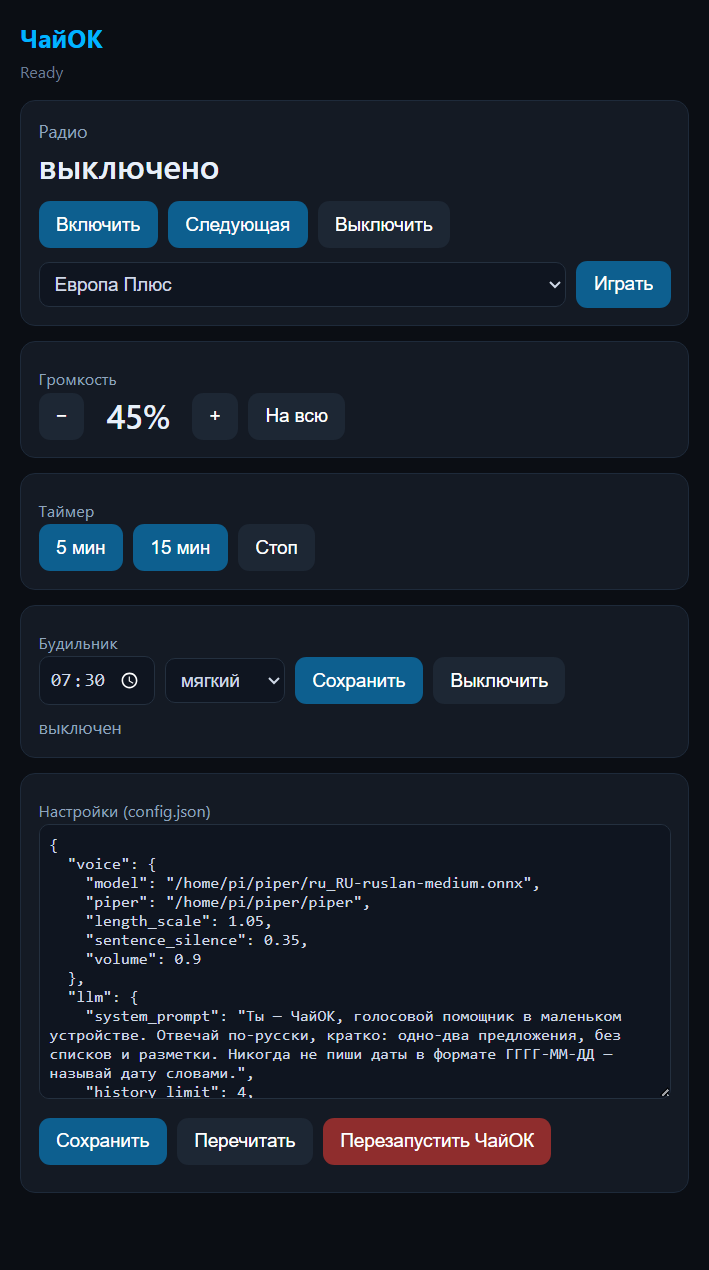
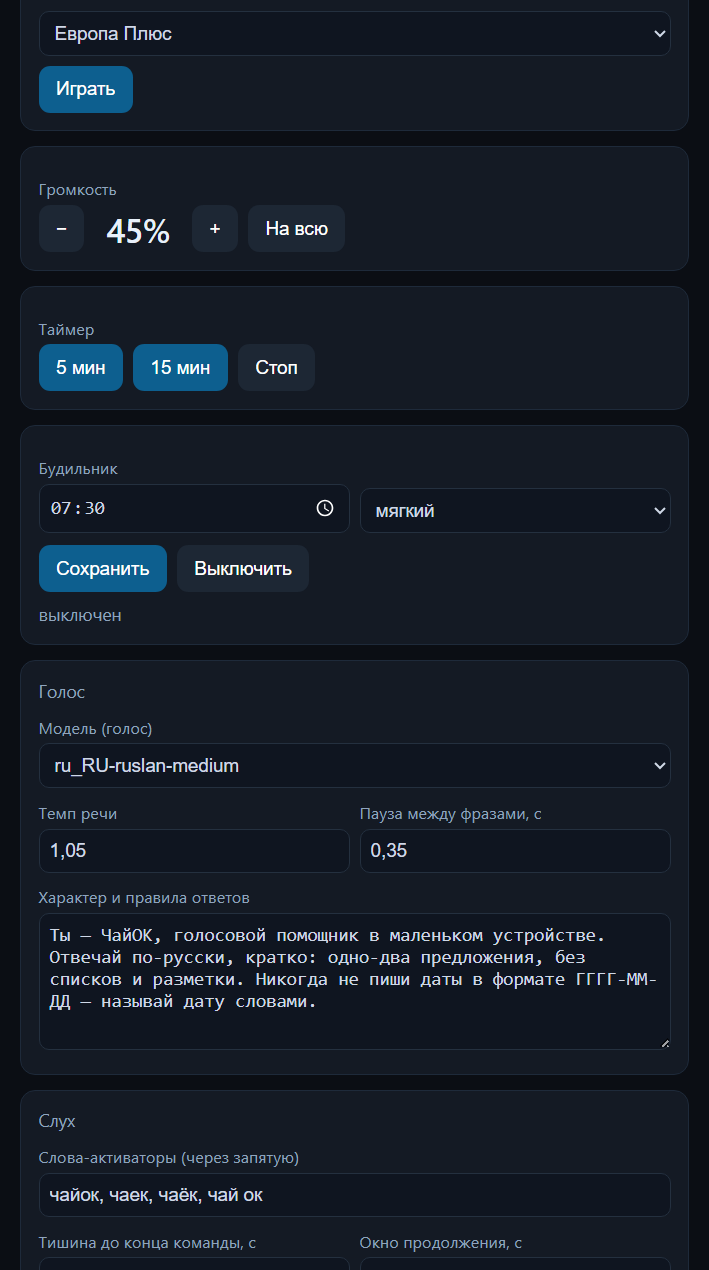
Панель: настройки обычными полями вместо JSON

diff --git a/webpanel.py b/webpanel.py
@@ -4,7 +4,9 @@
 в домашней сети: http://<ip>:8000
 """
 
+import glob
 import json
+import os
 import threading
 import urllib.parse
 from http.server import BaseHTTPRequestHandler, ThreadingHTTPServer
@@ -17,6 +19,7 @@ import volume
 
 _status_provider = None
 _restart_callback = None
+PIPER_DIR = "/home/pi/piper"
 
 
 def _password():
@@ -27,15 +30,13 @@ def _authorized(handler):
     password = _password()
     if not password:
         return True
-    header = handler.headers.get("X-Token", "")
-    if header == password:
+    if handler.headers.get("X-Token", "") == password:
         return True
     query = urllib.parse.parse_qs(urllib.parse.urlparse(handler.path).query)
     return query.get("token", [""])[0] == password
 
 
 def _status():
-    stations = radio_mod.player.stations
     alarm_data = alarm.load_alarm()
     result = {
         "ok": True,
@@ -43,7 +44,7 @@ def _status():
             "active": radio_mod.player.active(),
             "station": radio_mod.player.station_name(),
             "index": radio_mod.player.index,
-            "stations": [s["name"] for s in stations],
+            "stations": [s["name"] for s in radio_mod.player.stations],
         },
         "alarm": alarm_data,
         "timer": {
@@ -75,7 +76,7 @@ PAGE = """<!DOCTYPE html>
  .sub { color:#6b7c93; font-size:13px; margin-bottom:14px; }
  .card { background:#141a24; border:1px solid #1e2a3a; border-radius:12px;
          padding:14px; margin-bottom:12px; }
- .row { display:flex; gap:8px; flex-wrap:wrap; align-items:center; }
+ .row { display:flex; gap:8px; flex-wrap:wrap; align-items:flex-end; }
  button { background:#0d5f8f; color:#fff; border:0; border-radius:9px;
           padding:10px 14px; font-size:15px; }
  button.alt { background:#1d2734; }
@@ -84,11 +85,11 @@ PAGE = """<!DOCTYPE html>
  .status { font-size:14px; color:#8fa4bd; }
  .big { font-size:26px; font-weight:600; color:#e8f0fa; }
  input, select, textarea { background:#0f1520; color:#cfd8e6; border:1px solid #24303f;
-        border-radius:8px; padding:8px; font-size:15px; }
- textarea { width:100%; box-sizing:border-box; min-height:220px; font-family:monospace;
-            font-size:13px; }
- label { font-size:13px; color:#8fa4bd; display:block; margin:6px 0 2px; }
- .ok { color:#7ee0a5; } .warn { color:#ffb347; }
+        border-radius:8px; padding:8px; font-size:15px; width:100%; box-sizing:border-box; }
+ textarea { min-height:110px; }
+ label { font-size:13px; color:#8fa4bd; display:block; margin:10px 0 4px; }
+ .field { flex:1; min-width:130px; }
+ .ok { color:#7ee0a5; }
 </style>
 </head>
 <body>
@@ -106,7 +107,7 @@ PAGE = """<!DOCTYPE html>
     <button class="alt" onclick="api('radio',{action:'stop'})">Выключить</button>
   </div>
   <div class="row" style="margin-top:10px">
-    <select id="stations" style="flex:1"></select>
+    <select id="stations"></select>
     <button onclick="playSelected()">Играть</button>
   </div>
 </div>
@@ -133,12 +134,14 @@ PAGE = """<!DOCTYPE html>
 <div class="card">
   <label>Будильник</label>
   <div class="row">
-    <input id="alarm_time" type="time" step="60">
-    <select id="alarm_level">
+    <input id="alarm_time" type="time" step="60" style="flex:1">
+    <select id="alarm_level" style="flex:1">
       <option value="мягкий">мягкий</option>
       <option value="средний">средний</option>
       <option value="жёсткий">жёсткий</option>
     </select>
+  </div>
+  <div class="row" style="margin-top:10px">
     <button onclick="saveAlarm()">Сохранить</button>
     <button class="alt" onclick="api('alarm',{enabled:false})">Выключить</button>
   </div>
@@ -146,11 +149,63 @@ PAGE = """<!DOCTYPE html>
 </div>
 
 <div class="card">
-  <label>Настройки (config.json)</label>
-  <textarea id="cfg" spellcheck="false"></textarea>
-  <div class="row" style="margin-top:10px">
-    <button onclick="saveConfig()">Сохранить</button>
-    <button class="alt" onclick="loadConfig()">Перечитать</button>
+  <div class="status">Голос</div>
+  <label>Модель (голос)</label>
+  <select id="v_model"></select>
+  <div class="row">
+    <div class="field"><label>Темп речи</label>
+      <input id="v_len" type="number" step="0.01" min="0.7" max="1.5"></div>
+    <div class="field"><label>Пауза между фразами, с</label>
+      <input id="v_sil" type="number" step="0.05" min="0" max="1.5"></div>
+  </div>
+  <label>Характер и правила ответов</label>
+  <textarea id="v_prompt"></textarea>
+</div>
+
+<div class="card">
+  <div class="status">Слух</div>
+  <label>Слова-активаторы (через запятую)</label>
+  <input id="v_wake">
+  <div class="row">
+    <div class="field"><label>Тишина до конца команды, с</label>
+      <input id="v_silence" type="number" step="0.1" min="0.5" max="10"></div>
+    <div class="field"><label>Окно продолжения, с</label>
+      <input id="v_follow" type="number" step="1" min="0" max="30"></div>
+  </div>
+</div>
+
+<div class="card">
+  <div class="status">Ответы</div>
+  <div class="row">
+    <div class="field"><label>Реплик в памяти</label>
+      <input id="v_hist" type="number" step="1" min="0" max="20"></div>
+    <div class="field"><label>Ждать ответ, с</label>
+      <input id="v_read" type="number" step="10" min="10" max="600"></div>
+  </div>
+</div>
+
+<div class="card">
+  <div class="status">Погода</div>
+  <label>Город (для ответа)</label>
+  <input id="v_city">
+  <div class="row">
+    <div class="field"><label>Широта</label>
+      <input id="v_lat" type="number" step="0.0001"></div>
+    <div class="field"><label>Долгота</label>
+      <input id="v_lon" type="number" step="0.0001"></div>
+  </div>
+</div>
+
+<div class="card">
+  <div class="status">Панель</div>
+  <div class="row">
+    <div class="field"><label>Порт</label>
+      <input id="v_port" type="number" min="1024" max="65535"></div>
+    <div class="field"><label>Пароль (пусто — без пароля)</label>
+      <input id="v_pw" type="password" autocomplete="new-password"></div>
+  </div>
+  <div class="row" style="margin-top:12px">
+    <button onclick="saveSettings()">Сохранить настройки</button>
     <button class="red" onclick="restartApp()">Перезапустить ЧайОК</button>
   </div>
   <div class="status" id="cfg_state" style="margin-top:8px"></div>
@@ -158,6 +213,8 @@ PAGE = """<!DOCTYPE html>
 
 <script>
 const token = new URLSearchParams(location.search).get('token') || '';
+let cfg = null;
+
 async function api(path, body) {
   const res = await fetch('/api/' + path, {
     method: body ? 'POST' : 'GET',
@@ -167,14 +224,18 @@ async function api(path, body) {
   if (!res.ok) { alert('Ошибка: ' + res.status); return null; }
   return res.json();
 }
+
+function set(id, value) { document.getElementById(id).value = value; }
+function val(id) { return document.getElementById(id).value; }
+function num(id, fallback) { const v = parseFloat(val(id)); return isNaN(v) ? fallback : v; }
+
 async function refresh() {
   const s = await api('status');
   if (!s) return;
   document.getElementById('station').textContent = s.radio.active ? s.radio.station : 'выключено';
   document.getElementById('volume').textContent = s.volume + '%';
   document.getElementById('timer').textContent = s.timer.text || '';
-  document.getElementById('sub').textContent =
-    (s.app_status ? s.app_status : 'работает') + (s.app_version ? ' · ' + s.app_version : '');
+  document.getElementById('sub').textContent = (s.app_status || 'работает');
   const a = s.alarm;
   document.getElementById('alarm_state').textContent = a.enabled
     ? ('включён на ' + String(a.hour).padStart(2,'0') + ':' + String(a.minute).padStart(2,'0') +
@@ -185,16 +246,77 @@ async function refresh() {
       String(a.hour).padStart(2,'0') + ':' + String(a.minute).padStart(2,'0');
   }
   const sel = document.getElementById('stations');
-  if (!sel.dataset.filled) {
+  if (!sel.dataset.filled && s.radio.stations.length) {
     sel.innerHTML = s.radio.stations.map((n,i) => `<option value="${i}">${n}</option>`).join('');
     sel.dataset.filled = '1';
     sel.value = s.radio.index;
   }
 }
+
+async function loadVoices() {
+  const data = await api('voices');
+  const sel = document.getElementById('v_model');
+  const list = (data && data.voices) || [];
+  sel.innerHTML = list.map(p => {
+    const name = p.split('/').pop().replace('.onnx','');
+    return `<option value="${p}">${name}</option>`;
+  }).join('');
+}
+
+async function loadSettings() {
+  cfg = await api('config');
+  if (!cfg) return;
+  set('v_model', cfg.voice.model);
+  set('v_len', cfg.voice.length_scale);
+  set('v_sil', cfg.voice.sentence_silence);
+  set('v_prompt', cfg.llm.system_prompt);
+  set('v_hist', cfg.llm.history_limit);
+  set('v_read', cfg.llm.timeout_read);
+  set('v_wake', (cfg.voice_input.wake_words || []).join(', '));
+  set('v_silence', cfg.voice_input.command_silence);
+  set('v_follow', cfg.voice_input.followup_seconds);
+  set('v_city', cfg.weather.city);
+  set('v_lat', cfg.weather.latitude);
+  set('v_lon', cfg.weather.longitude);
+  set('v_port', cfg.web.port);
+  set('v_pw', cfg.web.password || '');
+  document.getElementById('cfg_state').textContent = '';
+}
+
+async function saveSettings() {
+  if (!cfg) return;
+  const updated = JSON.parse(JSON.stringify(cfg));
+  updated.voice.model = val('v_model');
+  updated.voice.length_scale = num('v_len', 1.05);
+  updated.voice.sentence_silence = num('v_sil', 0.35);
+  updated.llm.system_prompt = val('v_prompt');
+  updated.llm.history_limit = Math.round(num('v_hist', 4));
+  updated.llm.timeout_read = Math.round(num('v_read', 180));
+  updated.voice_input.wake_words = val('v_wake').split(',')
+      .map(w => w.trim().toLowerCase()).filter(w => w.length > 0);
+  updated.voice_input.command_silence = num('v_silence', 2.5);
+  updated.voice_input.followup_seconds = num('v_follow', 5);
+  updated.weather.city = val('v_city');
+  updated.weather.latitude = num('v_lat', 55.7558);
+  updated.weather.longitude = num('v_lon', 37.6173);
+  updated.web.port = Math.round(num('v_port', 8000));
+  updated.web.password = val('v_pw');
+
+  const saved = await api('config', updated);
+  if (saved) {
+    cfg = saved;
+    document.getElementById('cfg_state').textContent =
+      'сохранено — нажмите «Перезапустить ЧайОК», чтобы применить';
+  } else {
+    document.getElementById('cfg_state').textContent = 'не сохранилось';
+  }
+}
+
 async function playSelected() {
   await api('radio', {action: 'start', station: Number(document.getElementById('stations').value)});
   refresh();
 }
+
 async function saveAlarm() {
   const t = document.getElementById('alarm_time').value.split(':');
   await api('alarm', {
@@ -203,25 +325,14 @@ async function saveAlarm() {
   });
   refresh();
 }
-async function loadConfig() {
-  const cfg = await api('config');
-  document.getElementById('cfg').value = JSON.stringify(cfg, null, 2);
-}
-async function saveConfig() {
-  const el = document.getElementById('cfg');
-  let parsed;
-  try { parsed = JSON.parse(el.value); }
-  catch (e) { document.getElementById('cfg_state').textContent = 'JSON с ошибкой: ' + e.message; return; }
-  const res = await api('config', parsed);
-  document.getElementById('cfg_state').textContent = res ? 'сохранено' : 'не сохранилось';
-  if (res) el.value = JSON.stringify(res, null, 2);
-}
+
 async function restartApp() {
   if (!confirm('Перезапустить ЧайОК?')) return;
   const res = await api('restart', {});
   document.getElementById('cfg_state').textContent = res ? 'перезапускаю…' : 'не вышло';
 }
-loadConfig();
+
+loadVoices().then(loadSettings);
 refresh();
 setInterval(refresh, 3000);
 </script>
@@ -268,6 +379,10 @@ class Handler(BaseHTTPRequestHandler):
             return
         if path == "/api/config":
             self._json(config.as_dict())
+            return
+        if path == "/api/voices":
+            files = sorted(glob.glob(os.path.join(PIPER_DIR, "*.onnx")))
+            self._json({"voices": files})
             return
         self._send(404, "not found", "text/plain")
 
